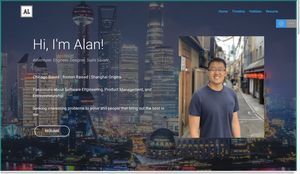
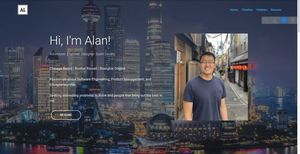
removed invisible button

diff --git a/index.html b/index.html
@@ -73,7 +73,7 @@
     </nav>
 </section>
 
-<section class="engine"><a href="https://mobirise.info/m">website design templates</a></section><section class="header3 cid-rGNgdG4i7P mbr-fullscreen mbr-parallax-background" id="header3-4">
+<section class="engine"><a href="https://mobirise.info/n">simple site templates</a></section><section class="header3 cid-rGNgdG4i7P mbr-fullscreen mbr-parallax-background" id="header3-4">
 
     
 
@@ -119,7 +119,7 @@
                 <div class="mbr-section-text mbr-white pb-3 ">
                     
                 </div>
-                <div class="mbr-section-btn"><a class="btn btn-md btn-white-outline display-4" href="https://mobirise.co">LIVE DEMO</a></div>
+                
             </div>
         </div>
     </div>
